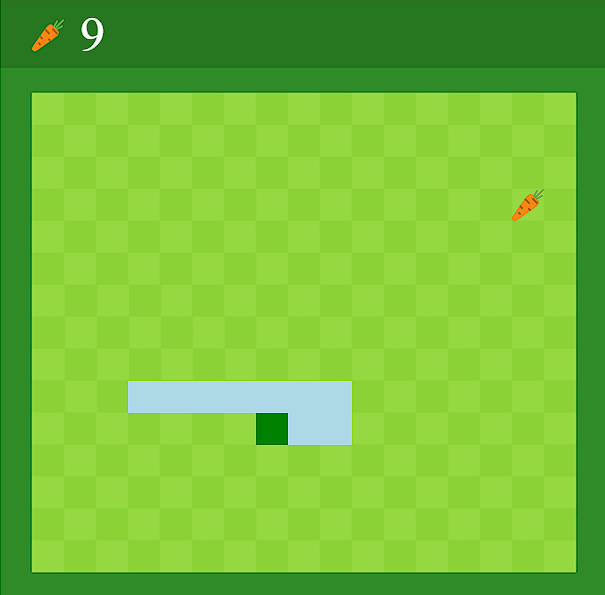
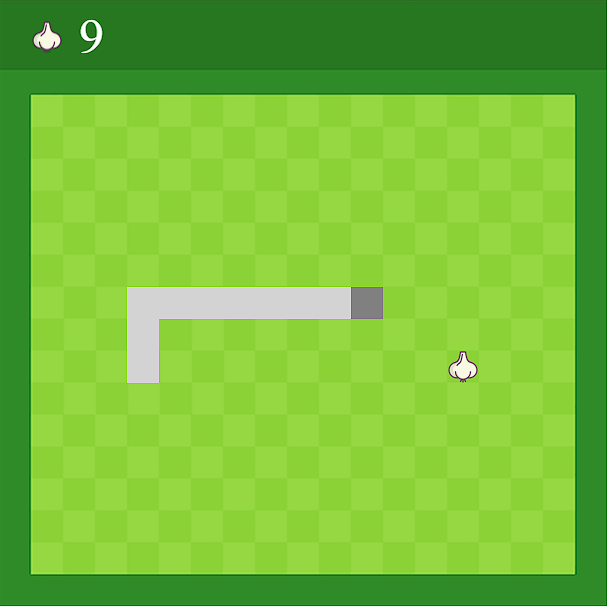
Full working snake (snake itself not so good)

diff --git a/Games/scripts/Snake.js b/Games/scripts/Snake.js
@@ -2,8 +2,41 @@
 let StartButton = document.getElementById("Start-button");
 let Menu = document.querySelector(".menu");
 let speed = document.getElementById("Speed");
-let leftArrow = document.getElementById("left-arrow");
-let rightArrow = document.getElementById("right-arrow");
+let leftArrowSpeed = document.getElementById("left-arrow");
+let rightArrowSpeed = document.getElementById("right-arrow");
+let leftArrowFood = document.getElementById("left-arrow-food");
+let rightArrowFood = document.getElementById("right-arrow-food");
+let imageElement = document.getElementById("food-img");
+
+
+// ____________IMAGES
+let gameFood;
+let imagesSource = [
+    "Images/carrot.png",
+    "Images/fries.png",
+    "Images/garlic.png",
+    "Images/kebab.png",
+    "Images/sushi.png",
+];
+let currentImgIndex = 0;
+
+rightArrowFood.addEventListener("click", ()=>{
+    if(currentImgIndex < 4){
+        currentImgIndex += 1;
+        imageElement.src = imagesSource[currentImgIndex];
+    }
+});
+leftArrowFood.addEventListener("click", ()=>{
+    if(currentImgIndex > 0){
+        currentImgIndex -= 1;
+        imageElement.src = imagesSource[currentImgIndex];
+    }
+});
+
+
+// ____________IMAGES
+
+// SPEED
 let userSpeed = 130;
 let gameSpeed;
 let speedArr = ["Slow", "Medium", "Fast"];
@@ -11,7 +44,7 @@ let speedArr = ["Slow", "Medium", "Fast"];
 let i = 0;
 speed.innerHTML = speedArr[i];
 
-rightArrow.addEventListener('click', ()=>{
+rightArrowSpeed.addEventListener('click', ()=>{
     if(i < 2){
         ++i;
         userSpeed -= 25;
@@ -21,7 +54,7 @@ rightArrow.addEventListener('click', ()=>{
     }
 });
 
-leftArrow.addEventListener('click', ()=>{
+leftArrowSpeed.addEventListener('click', ()=>{
     if(i > 0){
         --i;
         userSpeed += 25;
@@ -31,22 +64,95 @@ leftArrow.addEventListener('click', ()=>{
     }
 });
 
+// ARENA
+let ArenaIndex; 
+let gameArena;
+
+const arenaImg = document.querySelectorAll('.arenaImg');
+
+arenaImg.forEach(image => {
+  image.addEventListener('click', () => {
+    arenaImg.forEach(img => img.classList.remove('selected'));
+
+    image.classList.add('selected');
+
+    switch (image.id) {
+        case "arena-Green":
+            ArenaIndex = 0;
+            break;
+        case "arena-Blue":
+            ArenaIndex = 1;
+            break;
+        case "arena-Brown":
+            ArenaIndex = 2;
+            break;
+        default:
+            ArenaIndex = 0;
+            break;
+    }
+
+  });
+});
+
+
+
+// Start Game On Button
 StartButton.addEventListener('click',()=>{
     Menu.classList.toggle('closed');
     gameSpeed = userSpeed;
+    gameFood = currentImgIndex;
+    gameArena = ArenaIndex;
     startGame();
 });
 
+
+
+
+// __________________________________________________________________________GAME______________________________________________________________
 function startGame(){
     // ___main code
     const canvas = document.getElementById("game");
     const ctx = canvas.getContext("2d");
 
     const ground = new Image();
-    ground.src = "Images/Snake_arena_green.png";
+    switch (gameArena) {
+        case 0:
+            ground.src = "Images/Snake_arena_green.png";
+            break;
+        case 1:
+            ground.src = "Images/Snake_arena_blue.png";
+            break;
+        case 2:
+            ground.src = "Images/Snake_arena_brown.png";
+            break;
+        default:
+            ground.src = "Images/Snake_arena_green.png";
+            break;
+    }
+    
 
     const foodImg = new Image();
-    foodImg.src = "Images/food.png";
+    switch (gameFood) {
+        case 0:
+            foodImg.src = "Images/carrot.png";
+            break;
+        case 1:
+            foodImg.src = "Images/fries.png";
+            break;
+        case 2:
+            foodImg.src = "Images/garlic.png";
+            break;
+        case 3:
+            foodImg.src = "Images/kebab.png";
+            break;
+        case 4:
+            foodImg.src = "Images/sushi.png";
+            break;
+        default:
+            foodImg.src = "Images/carrot.png";
+            break;
+    }
+    
 
     let box = 32;
 
@@ -88,6 +194,7 @@ function startGame(){
         for(let i = 0; i < arr.length; ++i){
             if(arr[i].x == head.x && arr[i].y == head.y){
                 clearInterval(game);
+                Menu.classList.remove('closed');
             }
         }
     }
@@ -100,7 +207,7 @@ function startGame(){
         ctx.drawImage(foodImg, food.x, food.y);
 
         for(let i = 0; i<snake.length; ++i){
-            ctx.fillStyle = i == 0 ? "green" : "lightblue";
+            ctx.fillStyle = i == 0 ? "gray" : "lightgrey";
             ctx.fillRect(snake[i].x, snake[i].y, box, box);
         }
 
@@ -117,6 +224,7 @@ function startGame(){
 
         if(snakeX > box*17 || snakeX < box || snakeY< 3*box || snakeY > box*17){
             clearInterval(game);
+            Menu.classList.remove('closed');
         }
 
         if(dir == "left"){

diff --git a/Games/styles/Snake.css b/Games/styles/Snake.css
@@ -56,12 +56,12 @@ header{
     color: #000;
     font-size: 24px;
     font-style: normal;
-    font-weight: 600;
+    font-weight: 700;
     line-height: normal;
     display: flex;
     flex-direction: column;
     justify-content: space-around;
-    padding-left: 5%;
+    margin-left: 2.3%;
 
 }
 
@@ -69,16 +69,74 @@ header{
     left:-100%;
 }
 
+.Menu-title{
+    align-self: center;
+    font-size:40px;
+    font-weight: 700;
+}
+
 .Game-speed-container{
     display: flex;
     justify-content: space-between;
     gap: 20%;
     margin-right: 45%;
+    margin-left: 15%;
 }
 
-.speed-arrows{
+.arrows{
     cursor: pointer;
 }
-.speed-arrows:active{
+.arrows:active{
     width: 50px;
+}
+
+.Game-food-container{
+    display: flex;
+    justify-content: space-between;
+    gap: 20%;
+    margin-right: 45%;
+    margin-left: 15%;
+
+}
+.Game-Arena-container{
+    display: flex;
+    justify-content: space-between;
+    gap: 20%;
+    margin-right: 45%;
+    margin-left: 15%;
+}
+
+.Play-btn{
+    align-self: center;
+}
+
+#Start-button{
+    cursor: pointer;
+    width: 300px;
+    height: 80px;
+    border: none;
+    color: #f4f4f4;
+    text-shadow: 0px 4px 4px rgba(0, 0, 0, 0.25);
+    font-size: 42px;
+    font-style: normal;
+    font-weight: 600;
+    line-height: normal;
+    background-color: rgb(15, 155, 15);
+    border-radius: 40px;
+    box-shadow: 0px 4px 4px rgba(0, 0, 0, 0.25);
+}
+#Start-button:active{
+    box-shadow: inset 0px 4px 4px rgba(0, 0, 0, 0.25);
+    font-size:40px;
+}
+
+.arenaImg{
+    border: 3px solid transparent;
+    transition: border-color 0.3s, transform 0.3s;
+    cursor: pointer;
+}
+
+.arenaImg.selected {
+    border-color: green;
+    transform: scale(1.1);
 }

diff --git a/Games/Snake.html b/Games/Snake.html
@@ -18,18 +18,27 @@
     <canvas id="game" width="608" height="608"></canvas>
 
     <div class="menu">
+      <div class="Menu-title">Menu</div>
       <div class="Game-speed-container">
         <div>Speed:</div>
-        <img src="Images/game_arrow_left.svg" class="speed-arrows" id="left-arrow" width="60" alt="">
+        <img src="Images/game_arrow_left.svg" class="arrows" id="left-arrow" width="60" alt="">
         <div id="Speed"></div>
-        <img src="Images/game_arrow_right.svg" class="speed-arrows" id="right-arrow" width="60" alt="">  
+        <img src="Images/game_arrow_right.svg" class="arrows" id="right-arrow" width="60" alt="">  
       </div>
 
       <div class="Game-food-container">
         <div>Food:</div>
+        <img src="Images/game_arrow_left.svg" class="arrows" id="left-arrow-food" width="60" alt="" >
+        <img src="Images/carrot.png" alt="" id="food-img">
+        <img src="Images/game_arrow_right.svg" class="arrows" id="right-arrow-food" width="60" alt="">  
       </div>
+
+
       <div class="Game-Arena-container">
         <div>Arena:</div>
+        <img src="Images/Snake_arena_green.png" width="50px" height="50px" alt="" class="arenaImg" id="arena-Green">
+        <img src="Images/Snake_arena_blue.png" width="50px" height="50px" alt="" class="arenaImg" id="arena-Blue">
+        <img src="Images/Snake_arena_brown.png" width="50px" height="50px" alt="" class="arenaImg" id="arena-Brown">
       </div>
 
       <div class="Play-btn">

diff --git a/styles/secret_place_styles.css b/styles/secret_place_styles.css
@@ -57,6 +57,7 @@ header{
     transition: transform 0.1s ease;
     display: flex;
     flex-direction: column;
+    cursor: pointer;
 }
 .block-picture{
     width: 320px;
